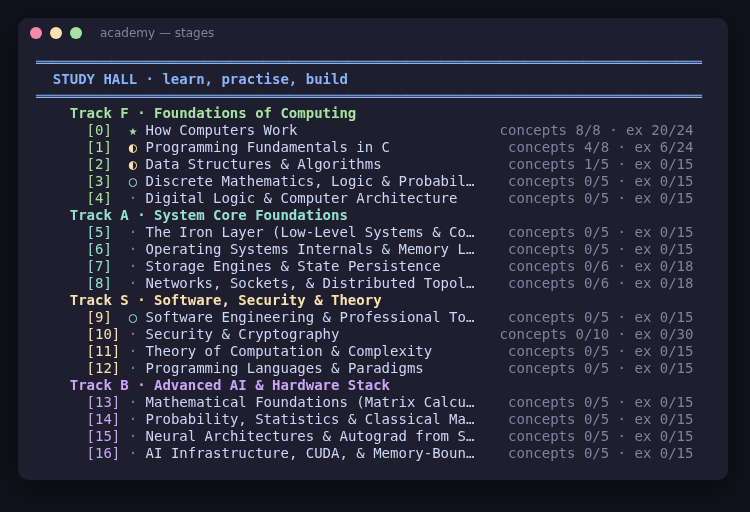
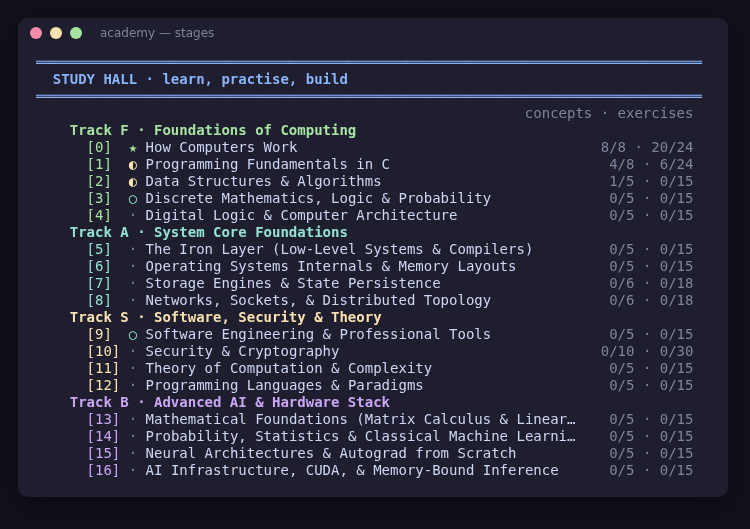
UX polish 9–14: status line names the page, full search, plain wording
- The full-screen pager's status line names the page from its own
  heading, as man does (START HERE · lines 1–29 of 266), shortened to
  the room left and dropped when the terminal is narrow.
- Search lists every match through the pager (up to 60) instead of the
  best 15, and labels career results "career", not "general".
- The Study Hall stage list uses a compact "concepts · exercises"
  column, so full stage titles fit at 80 columns.
- Plainer wording: IN PROGRESS instead of ACTIVE RESEARCH, hours as
  "8.5 h", real plurals instead of lab(s), match(es), text(s); the
  banner and README title read "Systems & AI Academy".
- Development builds show dev-<commit> instead of a long Go
  pseudo-version (v1.6.3-0.20261021172350-6dd173726dfa), which also
  broke mid-word on narrow terminals.

Claude-Session: https://claude.ai/code/session_01PeHC9mGDMKHVeqdMKqCduv

Changed region(s): [[0.0307, 0.0312, 0.9507, 0.9062]]

diff --git a/academy/app.go b/academy/app.go
@@ -7,6 +7,7 @@ import (
 	"fmt"
 	"io"
 	"io/fs"
+	"math"
 	"os"
 	"strconv"
 	"strings"
@@ -146,11 +147,16 @@ func (a *App) println(s string)                  { fmt.Fprintln(a.con.out, s) }
 // Badges
 // ---------------------------------------------------------------------------
 
+// hoursText shows hours plainly: "4.75 h", "8.5 h", "0 h".
+func hoursText(h float64) string {
+	return strconv.FormatFloat(math.Round(h*100)/100, 'f', -1, 64) + " h"
+}
+
 func statusPill(s Status) string {
 	if s == StatusGraduated {
 		return sty.Bold(sty.Green("★ GRADUATED"))
 	}
-	return sty.Bold(sty.Yellow("◐ ACTIVE RESEARCH"))
+	return sty.Bold(sty.Yellow("◐ IN PROGRESS"))
 }
 
 func statusMark(s Status) string {
@@ -533,7 +539,7 @@ func (a *App) viewLedger() {
 		for _, l := range flow([]string{
 			color(sty.Bold("Track "+t.ID)) + " " + bar(grad, len(t.Stages), min(16, max(6, w-30)), color),
 			fmt.Sprintf("%d/%d stages graduated", grad, len(t.Stages)),
-			sty.Bold(fmt.Sprintf("%.2fh", roundHours(trackHours))),
+			sty.Bold(hoursText(roundHours(trackHours))),
 		}, sty.Gray(" · "), w, "  ") {
 			a.println(l)
 		}
@@ -543,7 +549,7 @@ func (a *App) viewLedger() {
 	cs := a.reg.stats(time.Now(), 60)
 	a.println("\n" + sty.Gray(strings.Repeat("─", w)))
 	for _, l := range flow([]string{
-		sty.Gray("Campus total") + " " + sty.Bold(fmt.Sprintf("%.2fh", roundHours(grand))) + fmt.Sprintf(" across %d lab(s)", a.reg.labCount()),
+		sty.Gray("Campus total") + " " + sty.Bold(hoursText(roundHours(grand))) + " across " + count(a.reg.labCount(), "lab"),
 		sty.Gray("Last 14d") + " " + sparkline(cs.activity[len(cs.activity)-14:]),
 		sty.Gray("last saved") + " " + formatTime(a.reg.LastCommit),
 	}, "   ", w, "  ") {
@@ -572,7 +578,7 @@ func (a *App) renderStageCard(s *Stage, color func(string) string) {
 	a.println("")
 	a.printf("  %s %s %s %s\n", color("╭─"), color(sty.Bold(fmt.Sprintf("Stage %d", s.ID))),
 		sty.Gray("·"), sty.Bold(truncate(s.Title, w-16)))
-	flowed("   ", statusPill(s.Status), sty.Gray(fmt.Sprintf("%.2fh logged · %d lab(s)", stageHours(s), len(s.Labs))))
+	flowed("   ", statusPill(s.Status), sty.Gray(hoursText(stageHours(s))+" logged · "+count(len(s.Labs), "lab")))
 	line(padRight(sty.Gray("Reading"), 10) + bar(read, total, barW, sty.Green) + " " + fmt.Sprintf("%d/%d", read, total))
 	line(padRight(sty.Gray("Concepts"), 10) + bar(studied, concepts, barW, sty.Blue) + " " + fmt.Sprintf("%d/%d", studied, concepts))
 	line(padRight(sty.Gray("Exercises"), 10) + bar(exDone, exTotal, barW, sty.Magenta) + " " + fmt.Sprintf("%d/%d", exDone, exTotal))
@@ -616,7 +622,7 @@ func (a *App) renderStageCard(s *Stage, color func(string) string) {
 	}
 	for _, l := range s.Labs {
 		id := sty.Gray(padRight(fmt.Sprintf("#%d", l.ID), 4))
-		hours := sty.Bold(fmt.Sprintf("%.2fh", l.HoursLogged))
+		hours := sty.Bold(hoursText(l.HoursLogged))
 		if inner >= 72 { // one row: name, hours, build, status
 			nameW := min(28, inner-46)
 			line(fmt.Sprintf("  %s %s %s %s  %s  %s", color("▸"), id,
@@ -651,6 +657,10 @@ func (a *App) listStages(track *Track) {
 	a.mu.Lock()
 	defer a.mu.Unlock()
 	w := a.cols()
+	const countsW = 13 // "10/10 · 30/30", right-aligned so the numbers line up
+	if w-14-countsW-1 >= 24 {
+		a.printf("%s\n", sty.Gray(fmt.Sprintf("%*s", w-1, "concepts · exercises")))
+	}
 	for _, t := range a.reg.Tracks {
 		if track != nil && t.ID != track.ID {
 			continue
@@ -663,8 +673,7 @@ func (a *App) listStages(track *Track) {
 			exDone, exTotal := exerciseProgress(s)
 			state := a.reg.stageState(s)
 			mark := stateStyle(state)(stageStateGlyphs[state])
-			// Right-aligned in a fixed column, so two-digit counts line up.
-			counts := fmt.Sprintf("%25s", fmt.Sprintf("concepts %d/%d · ex %d/%d", studied, concepts, exDone, exTotal))
+			counts := fmt.Sprintf("%*s", countsW, fmt.Sprintf("%d/%d · %d/%d", studied, concepts, exDone, exTotal))
 			titleW := w - 14 - visibleLen(counts) - 1
 			if titleW < 24 { // too narrow for the counts: give the title the room
 				titleW, counts = w-14, ""
@@ -691,7 +700,7 @@ func (a *App) listLabs() bool {
 				nameW := max(12, min(32, w-36))
 				for i, row := range flow([]string{
 					color(padRight(fmt.Sprintf("#%d", l.ID), 4)) + " " + padRight(truncate(l.Name, nameW), nameW),
-					sty.Gray(fmt.Sprintf("stage %d", s.ID)) + " " + sty.Bold(fmt.Sprintf("%.2fh", l.HoursLogged)),
+					sty.Gray(fmt.Sprintf("stage %d", s.ID)) + " " + sty.Bold(hoursText(l.HoursLogged)),
 					statusMark(l.Status),
 				}, "  ", w-4, "") {
 					if i > 0 {
@@ -883,7 +892,7 @@ func (a *App) logHours() error {
 		l.Log = append(l.Log, HourEntry{At: time.Now().UTC().Truncate(time.Second), Hours: hours, Note: note})
 		total, name = l.HoursLogged, l.Name
 	})
-	a.con.ok("+%.2fh on %s — cumulative %s.", hours, sty.Bold(name), sty.Bold(fmt.Sprintf("%.2fh", total)))
+	a.con.ok("+%s on %s: %s in total.", hoursText(hours), sty.Bold(name), sty.Bold(hoursText(total)))
 	return nil
 }
 
@@ -936,8 +945,9 @@ func (a *App) toggleStage() error {
 	a.mu.Unlock()
 
 	if next == StatusGraduated && (read < total || studied < concepts || exDone < exTotal || activeLabs > 0 || !checkPassed) {
-		a.con.warn("Stage %d still has %d unread text(s), %d unstudied concept(s), %d open exercise(s) and %d active lab(s).",
-			id, total-read, concepts-studied, exTotal-exDone, activeLabs)
+		a.con.warn("Stage %d still has %s, %s, %s and %s.", id,
+			count(total-read, "unread text"), count(concepts-studied, "unstudied concept"),
+			count(exTotal-exDone, "open exercise"), count(activeLabs, "lab in progress", "labs in progress"))
 		if !checkPassed {
 			a.con.warn("Its mastery check has not been passed yet (Study Hall → Mastery check).")
 		}

diff --git a/academy/pagerfull.go b/academy/pagerfull.go
@@ -107,8 +107,9 @@ type fullPager struct {
 	find   pagerSearch
 	msg    string // shown in the status line until the next key
 
-	home     bool // opened from the main menu: menu keys go there
-	typedNow bool // the key that ended paging is a complete answer
+	home     bool   // opened from the main menu: menu keys go there
+	title    string // the page's own heading, for the status line
+	typedNow bool   // the key that ended paging is a complete answer
 }
 
 // homeKeys are the main menu's one-key choices. On a page opened from the
@@ -139,6 +140,7 @@ func (a *App) pageFullScreen(lines []string, o pageOpts, render func()) (pageRes
 	p := &fullPager{a: a, render: render, lines: lines, width: a.cols(), home: o.home}
 	p.find.current = -1
 	p.top = min(max(0, o.start), p.maxTop())
+	p.title = pageTitle(lines)
 	typed := p.run()
 	restoreTerminal()
 
@@ -309,24 +311,43 @@ func (p *fullPager) status() string {
 	keys := []string{
 		"Space next page · ↑↓ scroll · b back · / find · h help · q quit",
 		"Space next · b back · / find · h help · q quit",
-		"Space next · q quit",
+		"Space next · h help · q quit",
 		"q quit",
 	}
 	if p.home {
 		keys = []string{
 			"Space next page · ↑↓ scroll · / find · q quit · or press a menu key",
 			"Space next · b back · q quit · or a menu key",
-			"Space next · q quit",
+			"Space next · q quit · or a menu key",
 			"q quit",
 		}
 	}
 	if p.find.query != "" && len(p.find.matches) > 0 {
 		keys[0] = "Space next page · n/N next/previous match · h help · q quit"
 		keys[1] = "n next · N previous · h help · q quit"
-		keys[2] = "n next · q quit"
+		keys[2] = "n next · h help · q quit"
 	}
 	text := " " + where
+	// Like man, name the page when there is room for it with at least the
+	// short keys; otherwise the keys come first.
+	titled := false
+	if p.title != "" && p.msg == "" {
+		for _, k := range keys[:3] {
+			tail := " · " + where + " · " + k + " "
+			if room := cols - 1 - visibleLen(tail); room >= 12 {
+				t := truncate(p.title, min(28, room))
+				if head, _, ok := strings.Cut(p.title, " · "); ok && visibleLen(t) <= visibleLen(head)+4 {
+					t = truncate(head, room) // "START HERE", not "START HERE · …"
+				}
+				text, titled = " "+t+tail, true
+				break
+			}
+		}
+	}
 	for _, k := range keys {
+		if titled {
+			break
+		}
 		if t := " " + where + " · " + k + " "; visibleLen(t) <= cols {
 			text = t
 			break
@@ -423,4 +444,16 @@ func renderLines(a *App, render func()) []string {
 	render()
 	a.con.out = out
 	return strings.Split(strings.TrimRight(buf.String(), "\n"), "\n")
+}
+
+// pageTitle is a page's heading: its first line of text, without frames,
+// shortened for the status line ("START HERE · how to learn wi…").
+func pageTitle(lines []string) string {
+	for _, l := range lines {
+		t := strings.Trim(stripANSI(l), " ┏┃━╭│─═")
+		if t != "" {
+			return truncate(t, 28)
+		}
+	}
+	return ""
 }

diff --git a/academy/insightsui.go b/academy/insightsui.go
@@ -110,23 +110,32 @@ func (a *App) searchScreen() error {
 		return nil
 	}
 	shown := hits
-	if len(shown) > 15 {
-		shown = shown[:15]
+	if len(shown) > 60 { // enough to scan; more words narrow it down
+		shown = shown[:60]
 	}
-	a.printf("\n  %s\n", sty.Gray(fmt.Sprintf("%d match(es)%s", len(hits), map[bool]string{true: ", showing the best 15", false: ""}[len(hits) > 15])))
-	for i, h := range shown {
-		kind := map[string]func(string) string{HitConcept: sty.Blue, HitGlossary: sty.Cyan, HitResource: sty.Magenta, HitClassic: sty.Yellow, HitBlueprint: sty.Green, HitWord: sty.Cyan, HitMine: sty.Yellow,
-			HitPattern: sty.Green, HitDesign: sty.Blue, HitRole: sty.Green}[h.Kind]
-		where := fmt.Sprintf("Stage %-2d", h.Stage)
-		if h.Stage < 0 {
-			where = "general "
+	a.paged(false, func() {
+		note := count(len(hits), "match", "matches")
+		if len(hits) > len(shown) {
+			note += fmt.Sprintf(", showing the best %d: add a word to narrow it down", len(shown))
 		}
-		head := fmt.Sprintf("%s %s %s", kind(padRight(h.Kind, 9)), sty.Gray(where), sty.Bold(h.Title))
-		a.printf("  %s %s\n", sty.Cyan(fmt.Sprintf("%2d.", i+1)), truncate(stripANSI(head), a.cols()-7))
-		if h.Snippet != "" {
-			a.printf("      %s\n", sty.Gray(truncate(h.Snippet, a.cols()-8)))
+		a.printf("\n  %s\n", sty.Gray(note))
+		for i, h := range shown {
+			kind := map[string]func(string) string{HitConcept: sty.Blue, HitGlossary: sty.Cyan, HitResource: sty.Magenta, HitClassic: sty.Yellow, HitBlueprint: sty.Green, HitWord: sty.Cyan, HitMine: sty.Yellow,
+				HitPattern: sty.Green, HitDesign: sty.Blue, HitRole: sty.Green}[h.Kind]
+			where := fmt.Sprintf("Stage %-2d", h.Stage)
+			switch {
+			case h.Kind == HitPattern || h.Kind == HitDesign || h.Kind == HitRole:
+				where = "career  "
+			case h.Stage < 0:
+				where = "general "
+			}
+			head := fmt.Sprintf("%s %s %s", kind(padRight(h.Kind, 9)), sty.Gray(where), sty.Bold(h.Title))
+			a.printf("  %s %s\n", sty.Cyan(fmt.Sprintf("%2d.", i+1)), truncate(stripANSI(head), a.cols()-7))
+			if h.Snippet != "" {
+				a.printf("      %s\n", sty.Gray(truncate(h.Snippet, a.cols()-8)))
+			}
 		}
-	}
+	})
 	a.println("")
 	n, err := a.con.promptInt("Open which one?", func(n int) error {
 		if n < 1 || n > len(shown) {

diff --git a/academy/ux_test.go b/academy/ux_test.go
@@ -108,3 +108,29 @@ func TestStageOverviewShownOnce(t *testing.T) {
 		t.Error("q goes back; no Back item")
 	}
 }
+
+func TestPolish(t *testing.T) {
+	for in, want := range map[float64]string{0: "0 h", 4.75: "4.75 h", 8.5: "8.5 h", 1.0 / 3: "0.33 h"} {
+		if got := hoursText(in); got != want {
+			t.Errorf("hoursText(%v) = %q, want %q", in, got, want)
+		}
+	}
+	for v, pseudo := range map[string]bool{"v1.6.3-0.20261021172350-6dd173726dfa": true, "v0.0.0-20260924110238-77876a787eed": true, "v1.7.0": false} {
+		if pseudoVersion.MatchString(v) != pseudo {
+			t.Errorf("%s: pseudo-version = %v", v, !pseudo)
+		}
+	}
+	if got := pageTitle([]string{"", sty.Green("═══"), "  START HERE · how to learn"}); got != "START HERE · how to learn" {
+		t.Errorf("pageTitle = %q", got)
+	}
+	if got := pageTitle([]string{"  ┏━ Concept 1/8 · Bits"}); got != "Concept 1/8 · Bits" {
+		t.Errorf("pageTitle of a card = %q", got)
+	}
+	labels := map[string]bool{}
+	for _, h := range search("rate limiter") {
+		labels[h.Kind] = true
+	}
+	if !labels[HitDesign] {
+		t.Error("search must find the rate limiter design question")
+	}
+}

diff --git a/academy/version.go b/academy/version.go
@@ -9,12 +9,18 @@ import (
 	"flag"
 	"fmt"
 	"io"
+	"regexp"
 	"runtime"
 	"runtime/debug"
 	"strings"
 )
 
 var version = "" // set at release build time
+
+// pseudoVersion matches the versions Go gives untagged commits, such as
+// v0.0.0-20260924…-77876a787eed or v1.6.3-0.20261021172350-6dd173726dfa:
+// they are shown as dev-<commit> instead.
+var pseudoVersion = regexp.MustCompile(`\d{14}-[0-9a-f]{12}`)
 
 // appVersion is the version shown to users.
 func appVersion() string {
@@ -27,7 +33,7 @@ func appVersion() string {
 	}
 	// A real tagged module version, but not a local pseudo-version such
 	// as v0.0.0-20260924…-77876a787eed+dirty.
-	if v := bi.Main.Version; v != "" && v != "(devel)" && !strings.HasPrefix(v, "v0.0.0-") && !strings.Contains(v, "+dirty") {
+	if v := bi.Main.Version; v != "" && v != "(devel)" && !pseudoVersion.MatchString(v) && !strings.Contains(v, "+dirty") {
 		return v
 	}
 	rev, dirty := "", false

diff --git a/academy/ui.go b/academy/ui.go
@@ -377,7 +377,7 @@ func banner(width int) string {
 		"   █▀█ █▄▄ █▀█ █▄▀ ██▄ █░▀░█ ░█░",
 	}
 	sub := ""
-	for _, l := range wrap("Systems & AI · Campus Registry · "+appVersion(), width-3, "   ") {
+	for _, l := range wrap("Systems & AI Academy · "+appVersion(), width-3, "   ") {
 		sub += sty.Dim(l) + "\n"
 	}
 	return "\n" + sty.Bold(sty.Cyan(art[0])) + "\n" + sty.Bold(sty.Magenta(art[1])) + "\n" + sub

diff --git a/academy/CHANGELOG.md b/academy/CHANGELOG.md
@@ -16,6 +16,12 @@ After a walk through the app as a new learner, at 40, 80 and 160 columns:
 - **The stage page shows its long overview once.** Coming back to it after the glossary or a quiz shows the title, mastery and the concept list.
 - **Fewer keystrokes:** "Study a concept" asks for a number from the list already on screen, and the two-digit "Back" items are gone from the stage menu and the career center (`q` goes back).
 - **Tidy screen is on by default for new learners:** every action starts on a clean screen, so the scrollback stays readable.
+- **Polish:**
+  - The pager's status line names the page, as man does (`START HERE · lines 1–29 of 266`).
+  - Search lists every match through the pager (up to 60) instead of only the best 15, and labels career results "career".
+  - The Study Hall stage list uses a compact `concepts · exercises` column, so full stage titles fit at 80 columns.
+  - Plainer wording: "in progress" instead of "ACTIVE RESEARCH", hours shown as "8.5 h" instead of "8.50h", real plurals instead of "lab(s)" and "match(es)", and the banner reads "Systems & AI Academy".
+  - Development builds show a short `dev-<commit>` instead of a long Go pseudo-version.
 
 ### Added
 - **Get hired: the career center** (`e`). It turns learning into the three things companies hire on: foundations, finished projects and interview skill.

diff --git a/academy/README.md b/academy/README.md
@@ -1,6 +1,6 @@
 <p align="center"><img src="assets/icon.svg" width="128" alt="Systems & AI Academy icon: a CPU chip with a terminal prompt"></p>
 
-# Systems & AI Academy: Campus Registry
+# Systems & AI Academy
 
 A terminal-based study companion for **self-learners**. It covers the core of a computer science degree plus modern AI and defensive security in **21 stages**, starting with how computers work, and it assumes no prior knowledge. Every concept is explained from scratch and comes with **real-world exercises**.
 
